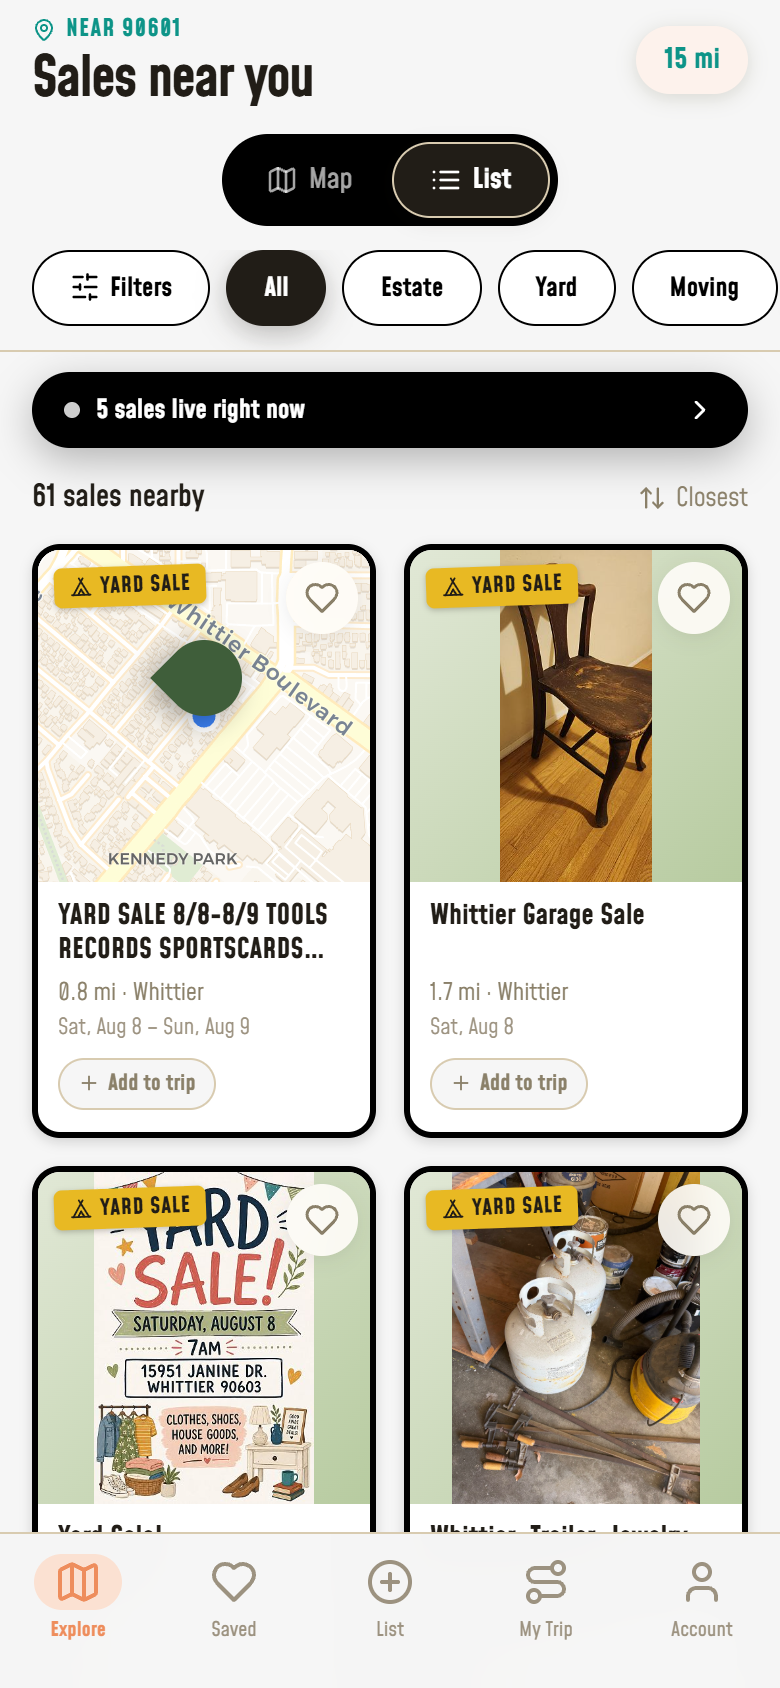
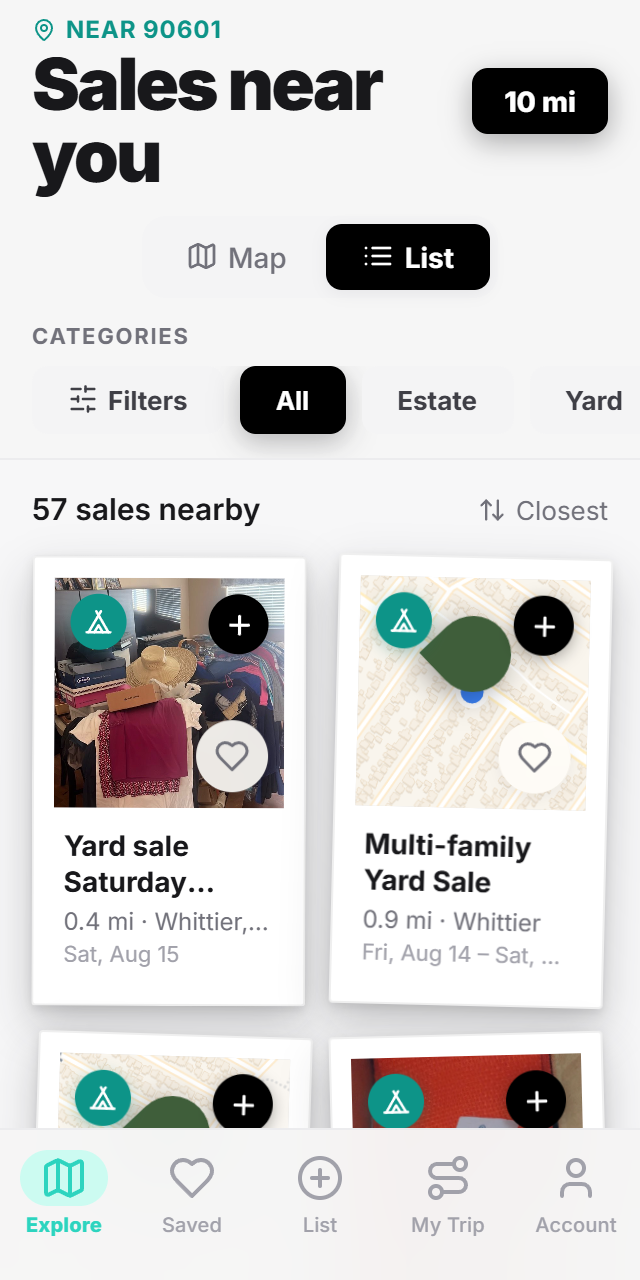
Bring the marketing site and legal/support pages onto the current teal brand
These were all still on the pre-rebrand orange/cream palette while the app itself, its icon, and the transactional emails had already moved to teal -- landing.html's --brand-* scale, the logo-mark.svg gradient, and every legal/support page's background+link colors now match. Also replaced marketing-hero.png, which was a genuinely stale screenshot showing UI that no longer exists (the removed "live right now" banner, old pill buttons, the pre-polaroid card layout) with a fresh one of the current app, sized down from the App Store screenshot's 1.8MB to ~320KB since this one loads on every landing page visit.

diff --git a/landing.html b/landing.html
@@ -14,7 +14,7 @@
     --paper:#F6F6F6; --paper-2:#F6F6F6; --surface:#FFFFFF; --surface-tint:#FFFFFF;
     --ink-900:#211D17; --ink-800:#332E24; --ink-700:#4A4335; --ink-600:#6B6252;
     --ink-500:#8A8069; --ink-400:#9C9280; --ink-300:#C4B593; --ink-200:#D8CBB0; --line:#D8CBB0;
-    --brand-50:#FDF2EC; --brand-100:#FBE1D2; --brand-400:#EE8D5C; --brand-500:#D97540; --brand-600:#B85E2F; --brand-700:#954A25;
+    --brand-50:#F0FDFA; --brand-100:#CCFBF1; --brand-400:#2DD4BF; --brand-500:#14B8A6; --brand-600:#0D9488; --brand-700:#0F766E;
     --tape-100:#F8E8B0; --tape-300:#F0C550; --tape-500:#E8B923; --tape-700:#8A6A0D;
     --type-estate-fg:#2C4A7C; --type-estate-bg:#DCE4EF;
     --type-yard-fg:#3F5E3A;   --type-yard-bg:#E1E8D6;
@@ -56,7 +56,7 @@
   .hero { padding: 72px 0 40px; position: relative; }
   .hero .wrap { display: grid; grid-template-columns: 1.05fr 0.95fr; gap: 56px; align-items: center; }
   .eyebrow { display: inline-flex; align-items: center; gap: 8px; font-family: var(--font-sans); font-weight: 700; font-size: 12.5px; letter-spacing: .06em; text-transform: uppercase; color: var(--brand-500); background: var(--brand-50); border: 1px solid var(--brand-100); padding: 7px 14px 7px 10px; border-radius: var(--radius-pill); margin-bottom: 20px; }
-  .eyebrow .dot { width: 7px; height: 7px; border-radius: 50%; background: var(--type-yard-fg); }
+  .eyebrow .dot { width: 7px; height: 7px; border-radius: 50%; background: var(--brand-600); }
   .hero h1 { font-size: 52px; line-height: 1.03; color: var(--ink-900); }
   .hero h1 .hl { color: var(--brand-400); }
   .hero p.sub { font-size: 18px; color: var(--ink-600); margin: 22px 0 30px; max-width: 480px; line-height: 1.6; }
@@ -68,7 +68,7 @@
   .phone-shot { position: relative; display: flex; justify-content: center; padding: 0 54px; }
   .phone-shot img { width: 100%; max-width: 320px; border-radius: 40px; box-shadow: var(--shadow-lg); display: block; }
   .float-tag { position: absolute; background: #fff; border-radius: var(--radius-lg); box-shadow: var(--shadow-card); padding: 10px 16px; font-family: var(--font-sans); font-weight: 700; font-size: 13px; display: flex; align-items: center; gap: 8px; white-space: nowrap; z-index: 2; }
-  .float-tag.t1 { top: 18%; left: 0; color: var(--type-yard-fg); }
+  .float-tag.t1 { top: 18%; left: 0; color: var(--tape-700); }
   .float-tag.t2 { bottom: 16%; right: 0; color: var(--brand-500); }
   .float-dot { width: 8px; height: 8px; border-radius: 50%; background: currentColor; }
 
@@ -98,7 +98,7 @@
 
   /* ── CTA band ────────────────────────────────────────── */
   .cta-band { background: var(--ink-900); border-radius: var(--radius-2xl); padding: 64px 48px; text-align: center; position: relative; overflow: hidden; }
-  .cta-band::before { content: ''; position: absolute; inset: 0; background: radial-gradient(circle at 20% 20%, rgba(238,141,92,.35), transparent 55%), radial-gradient(circle at 85% 80%, rgba(232,185,35,.18), transparent 50%); }
+  .cta-band::before { content: ''; position: absolute; inset: 0; background: radial-gradient(circle at 20% 20%, rgba(45,212,191,.35), transparent 55%), radial-gradient(circle at 85% 80%, rgba(232,185,35,.18), transparent 50%); }
   .cta-band > * { position: relative; }
   .cta-band h2 { color: #fff; font-size: 34px; margin-bottom: 14px; }
   .cta-band p { color: var(--ink-300); font-size: 16px; margin-bottom: 30px; }

diff --git a/support.html b/support.html
@@ -5,13 +5,13 @@
 <meta name="viewport" content="width=device-width, initial-scale=1">
 <title>Support — Rummage</title>
 <style>
-  body { font-family: -apple-system, BlinkMacSystemFont, 'Segoe UI', Arial, sans-serif; max-width: 640px; margin: 0 auto; padding: 40px 24px 80px; color: #211D17; background: #EDE6D6; line-height: 1.6; }
+  body { font-family: -apple-system, BlinkMacSystemFont, 'Segoe UI', Arial, sans-serif; max-width: 640px; margin: 0 auto; padding: 40px 24px 80px; color: #211D17; background: #F6F6F6; line-height: 1.6; }
   h1 { font-size: 28px; font-weight: 900; margin-bottom: 4px; }
   h2 { font-size: 18px; font-weight: 800; margin-top: 32px; margin-bottom: 8px; }
   p { font-size: 15px; color: #3A342B; }
   .updated { font-family: monospace; font-size: 12px; color: #7A7264; margin-bottom: 24px; }
-  a { color: #A81F24; }
-  .contact-box { background: #F1EAD6; border-radius: 12px; padding: 20px 24px; margin: 20px 0; }
+  a { color: #0F766E; }
+  .contact-box { background: #F0FDFA; border-radius: 12px; padding: 20px 24px; margin: 20px 0; }
   .contact-box p { margin: 4px 0; }
 </style>
 </head>

diff --git a/sms-consent.html b/sms-consent.html
@@ -5,11 +5,12 @@
 <meta name="viewport" content="width=device-width, initial-scale=1">
 <title>SMS Consent & Opt-In Policy — Rummage</title>
 <style>
-  body { font-family: -apple-system, BlinkMacSystemFont, 'Segoe UI', Arial, sans-serif; max-width: 640px; margin: 0 auto; padding: 40px 24px 80px; color: #211D17; background: #EDE6D6; line-height: 1.6; }
+  body { font-family: -apple-system, BlinkMacSystemFont, 'Segoe UI', Arial, sans-serif; max-width: 640px; margin: 0 auto; padding: 40px 24px 80px; color: #211D17; background: #F6F6F6; line-height: 1.6; }
   h1 { font-size: 28px; font-weight: 900; margin-bottom: 4px; }
   h2 { font-size: 18px; font-weight: 800; margin-top: 32px; margin-bottom: 8px; }
   p { font-size: 15px; color: #3A342B; }
   .updated { font-family: monospace; font-size: 12px; color: #7A7264; margin-bottom: 24px; }
+  a { color: #0F766E; }
   .sample { background: #fff; border-radius: 12px; padding: 16px 20px; font-family: monospace; font-size: 14px; margin: 12px 0; }
 </style>
 </head>

diff --git a/terms.html b/terms.html
@@ -5,12 +5,12 @@
 <meta name="viewport" content="width=device-width, initial-scale=1">
 <title>Terms of Service — Rummage</title>
 <style>
-  body { font-family: -apple-system, BlinkMacSystemFont, 'Segoe UI', Arial, sans-serif; max-width: 640px; margin: 0 auto; padding: 40px 24px 80px; color: #211D17; background: #EDE6D6; line-height: 1.6; }
+  body { font-family: -apple-system, BlinkMacSystemFont, 'Segoe UI', Arial, sans-serif; max-width: 640px; margin: 0 auto; padding: 40px 24px 80px; color: #211D17; background: #F6F6F6; line-height: 1.6; }
   h1 { font-size: 28px; font-weight: 900; margin-bottom: 4px; }
   h2 { font-size: 18px; font-weight: 800; margin-top: 32px; margin-bottom: 8px; }
   p { font-size: 15px; color: #3A342B; }
   .updated { font-family: monospace; font-size: 12px; color: #7A7264; margin-bottom: 24px; }
-  a { color: #A81F24; }
+  a { color: #0F766E; }
 </style>
 </head>
 <body>

diff --git a/help.html b/help.html
@@ -5,12 +5,12 @@
 <meta name="viewport" content="width=device-width, initial-scale=1">
 <title>Help &amp; FAQ — Rummage</title>
 <style>
-  body { font-family: -apple-system, BlinkMacSystemFont, 'Segoe UI', Arial, sans-serif; max-width: 640px; margin: 0 auto; padding: 40px 24px 80px; color: #211D17; background: #EDE6D6; line-height: 1.6; }
+  body { font-family: -apple-system, BlinkMacSystemFont, 'Segoe UI', Arial, sans-serif; max-width: 640px; margin: 0 auto; padding: 40px 24px 80px; color: #211D17; background: #F6F6F6; line-height: 1.6; }
   h1 { font-size: 28px; font-weight: 900; margin-bottom: 4px; }
   h2 { font-size: 18px; font-weight: 800; margin-top: 32px; margin-bottom: 8px; }
   p { font-size: 15px; color: #3A342B; }
   .updated { font-family: monospace; font-size: 12px; color: #7A7264; margin-bottom: 24px; }
-  a { color: #A81F24; }
+  a { color: #0F766E; }
 </style>
 </head>
 <body>

diff --git a/privacy.html b/privacy.html
@@ -5,12 +5,12 @@
 <meta name="viewport" content="width=device-width, initial-scale=1">
 <title>Privacy Policy — Rummage</title>
 <style>
-  body { font-family: -apple-system, BlinkMacSystemFont, 'Segoe UI', Arial, sans-serif; max-width: 640px; margin: 0 auto; padding: 40px 24px 80px; color: #211D17; background: #EDE6D6; line-height: 1.6; }
+  body { font-family: -apple-system, BlinkMacSystemFont, 'Segoe UI', Arial, sans-serif; max-width: 640px; margin: 0 auto; padding: 40px 24px 80px; color: #211D17; background: #F6F6F6; line-height: 1.6; }
   h1 { font-size: 28px; font-weight: 900; margin-bottom: 4px; }
   h2 { font-size: 18px; font-weight: 800; margin-top: 32px; margin-bottom: 8px; }
   p { font-size: 15px; color: #3A342B; }
   .updated { font-family: monospace; font-size: 12px; color: #7A7264; margin-bottom: 24px; }
-  a { color: #A81F24; }
+  a { color: #0F766E; }
 </style>
 </head>
 <body>
